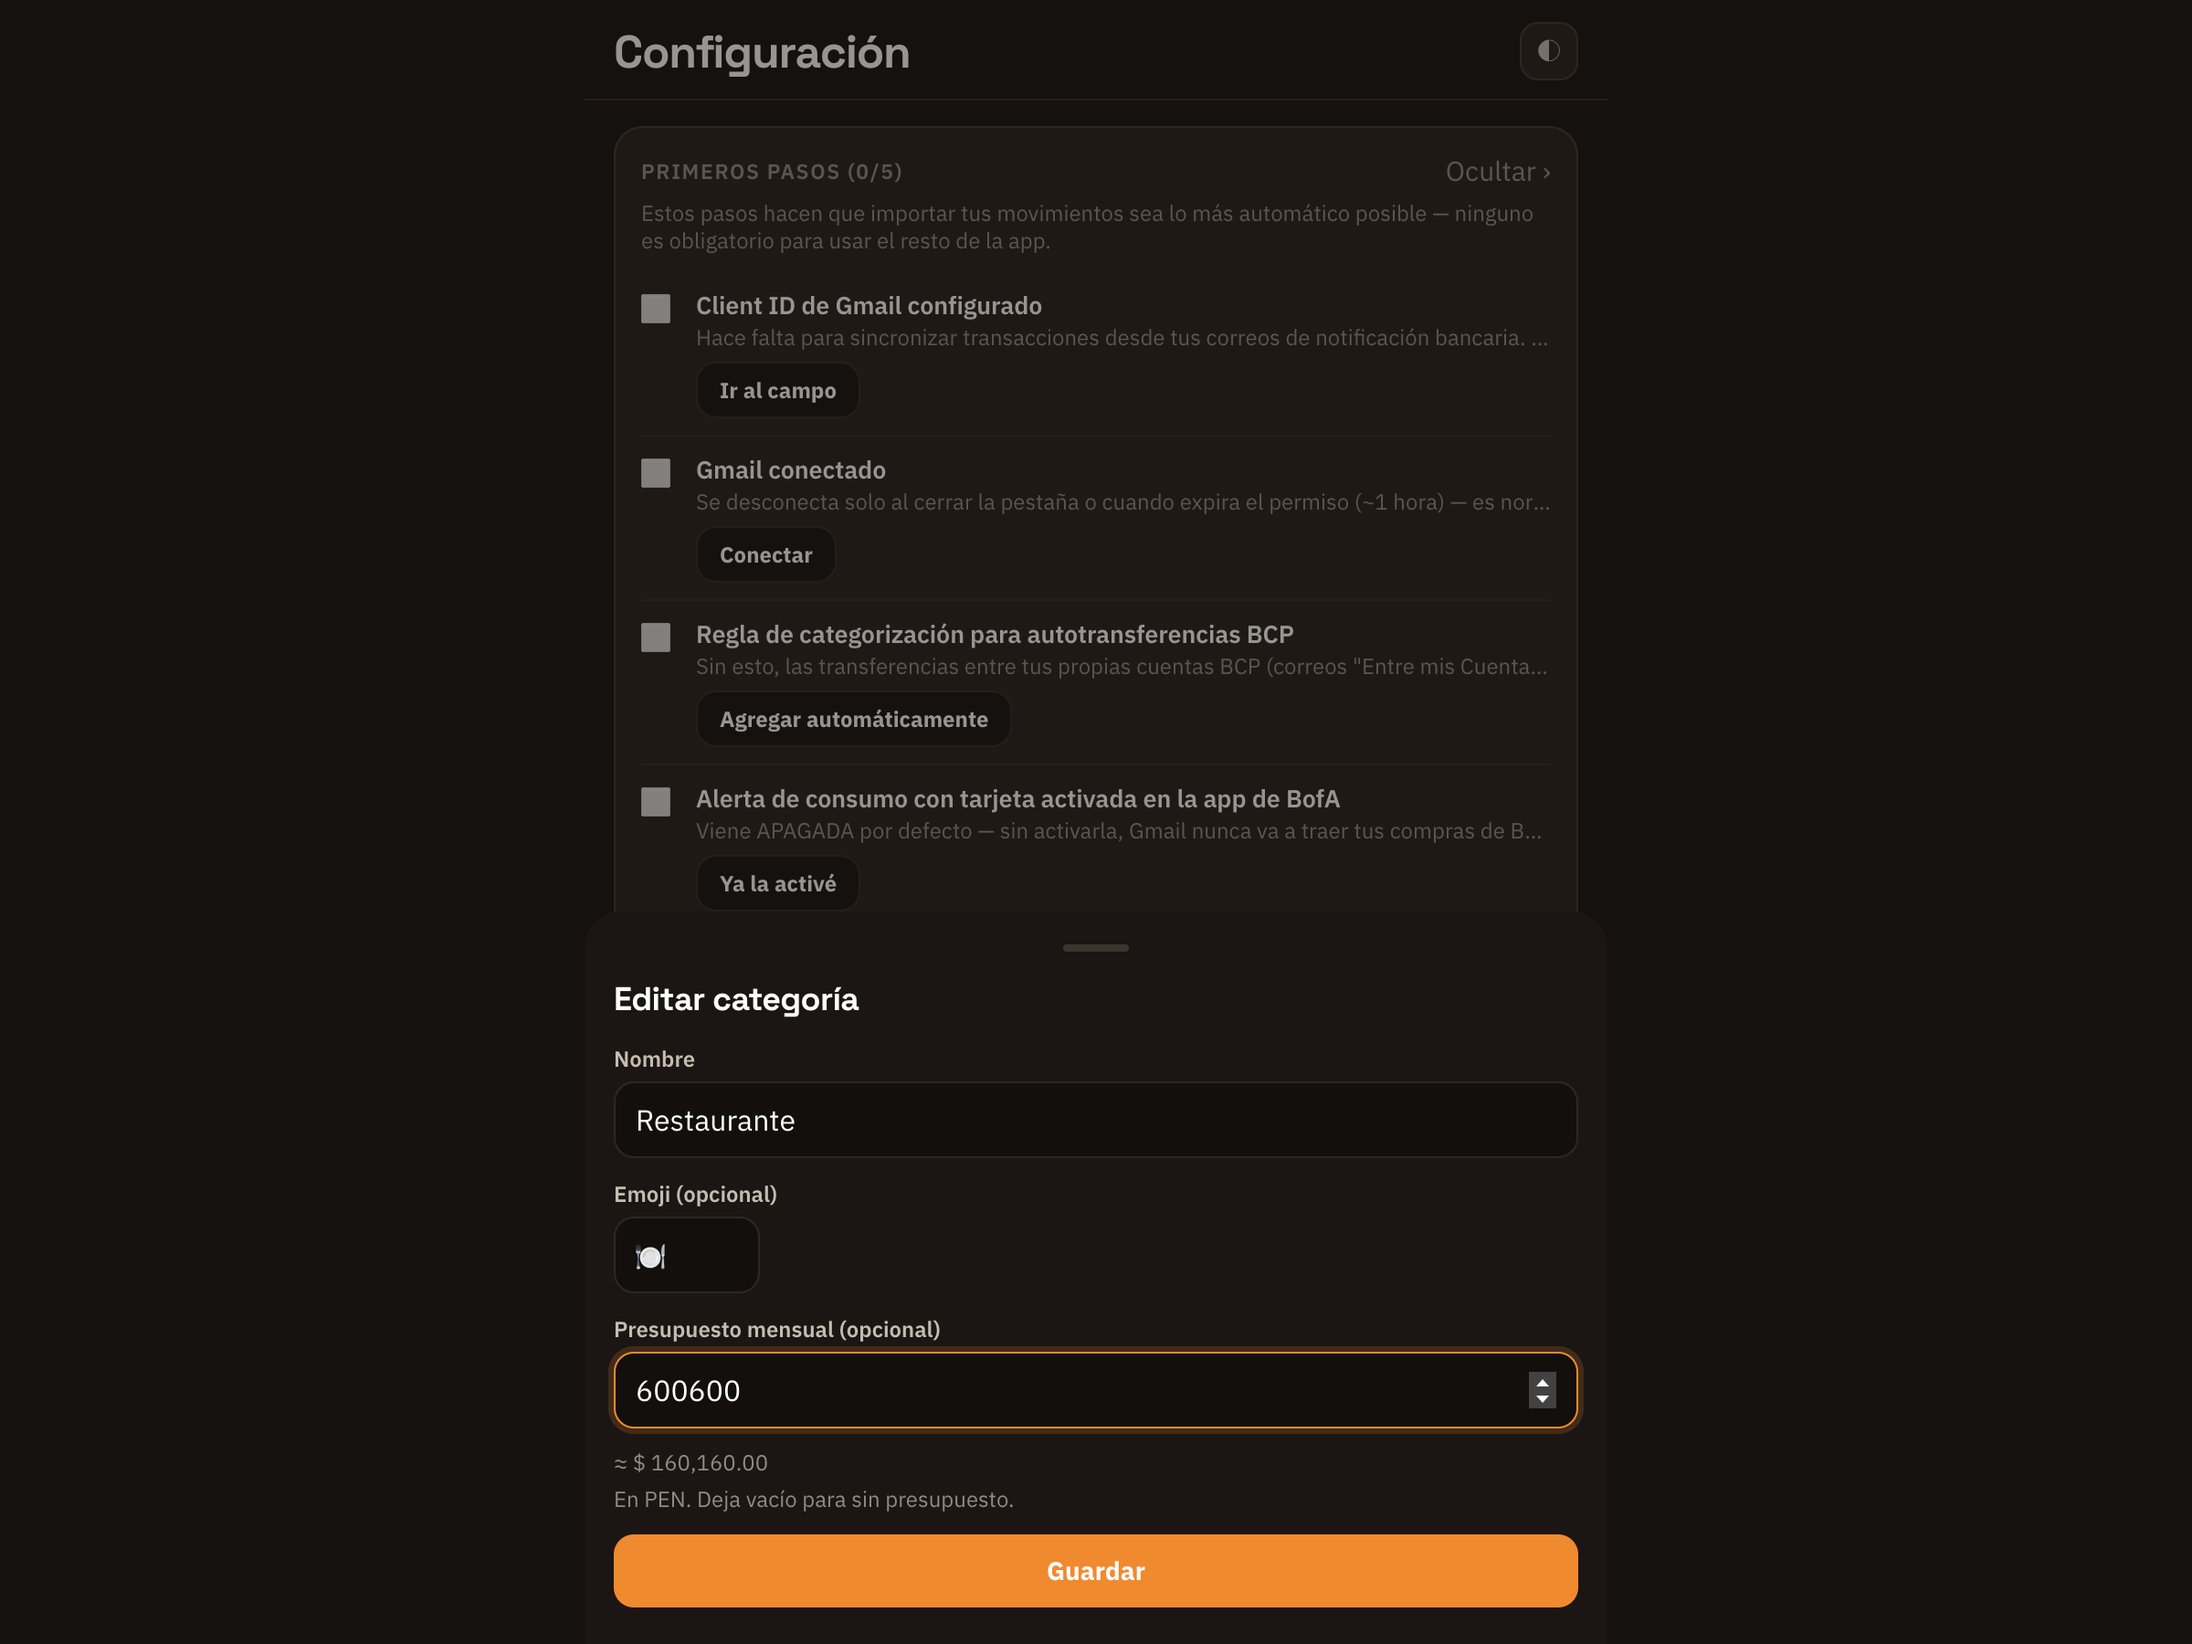
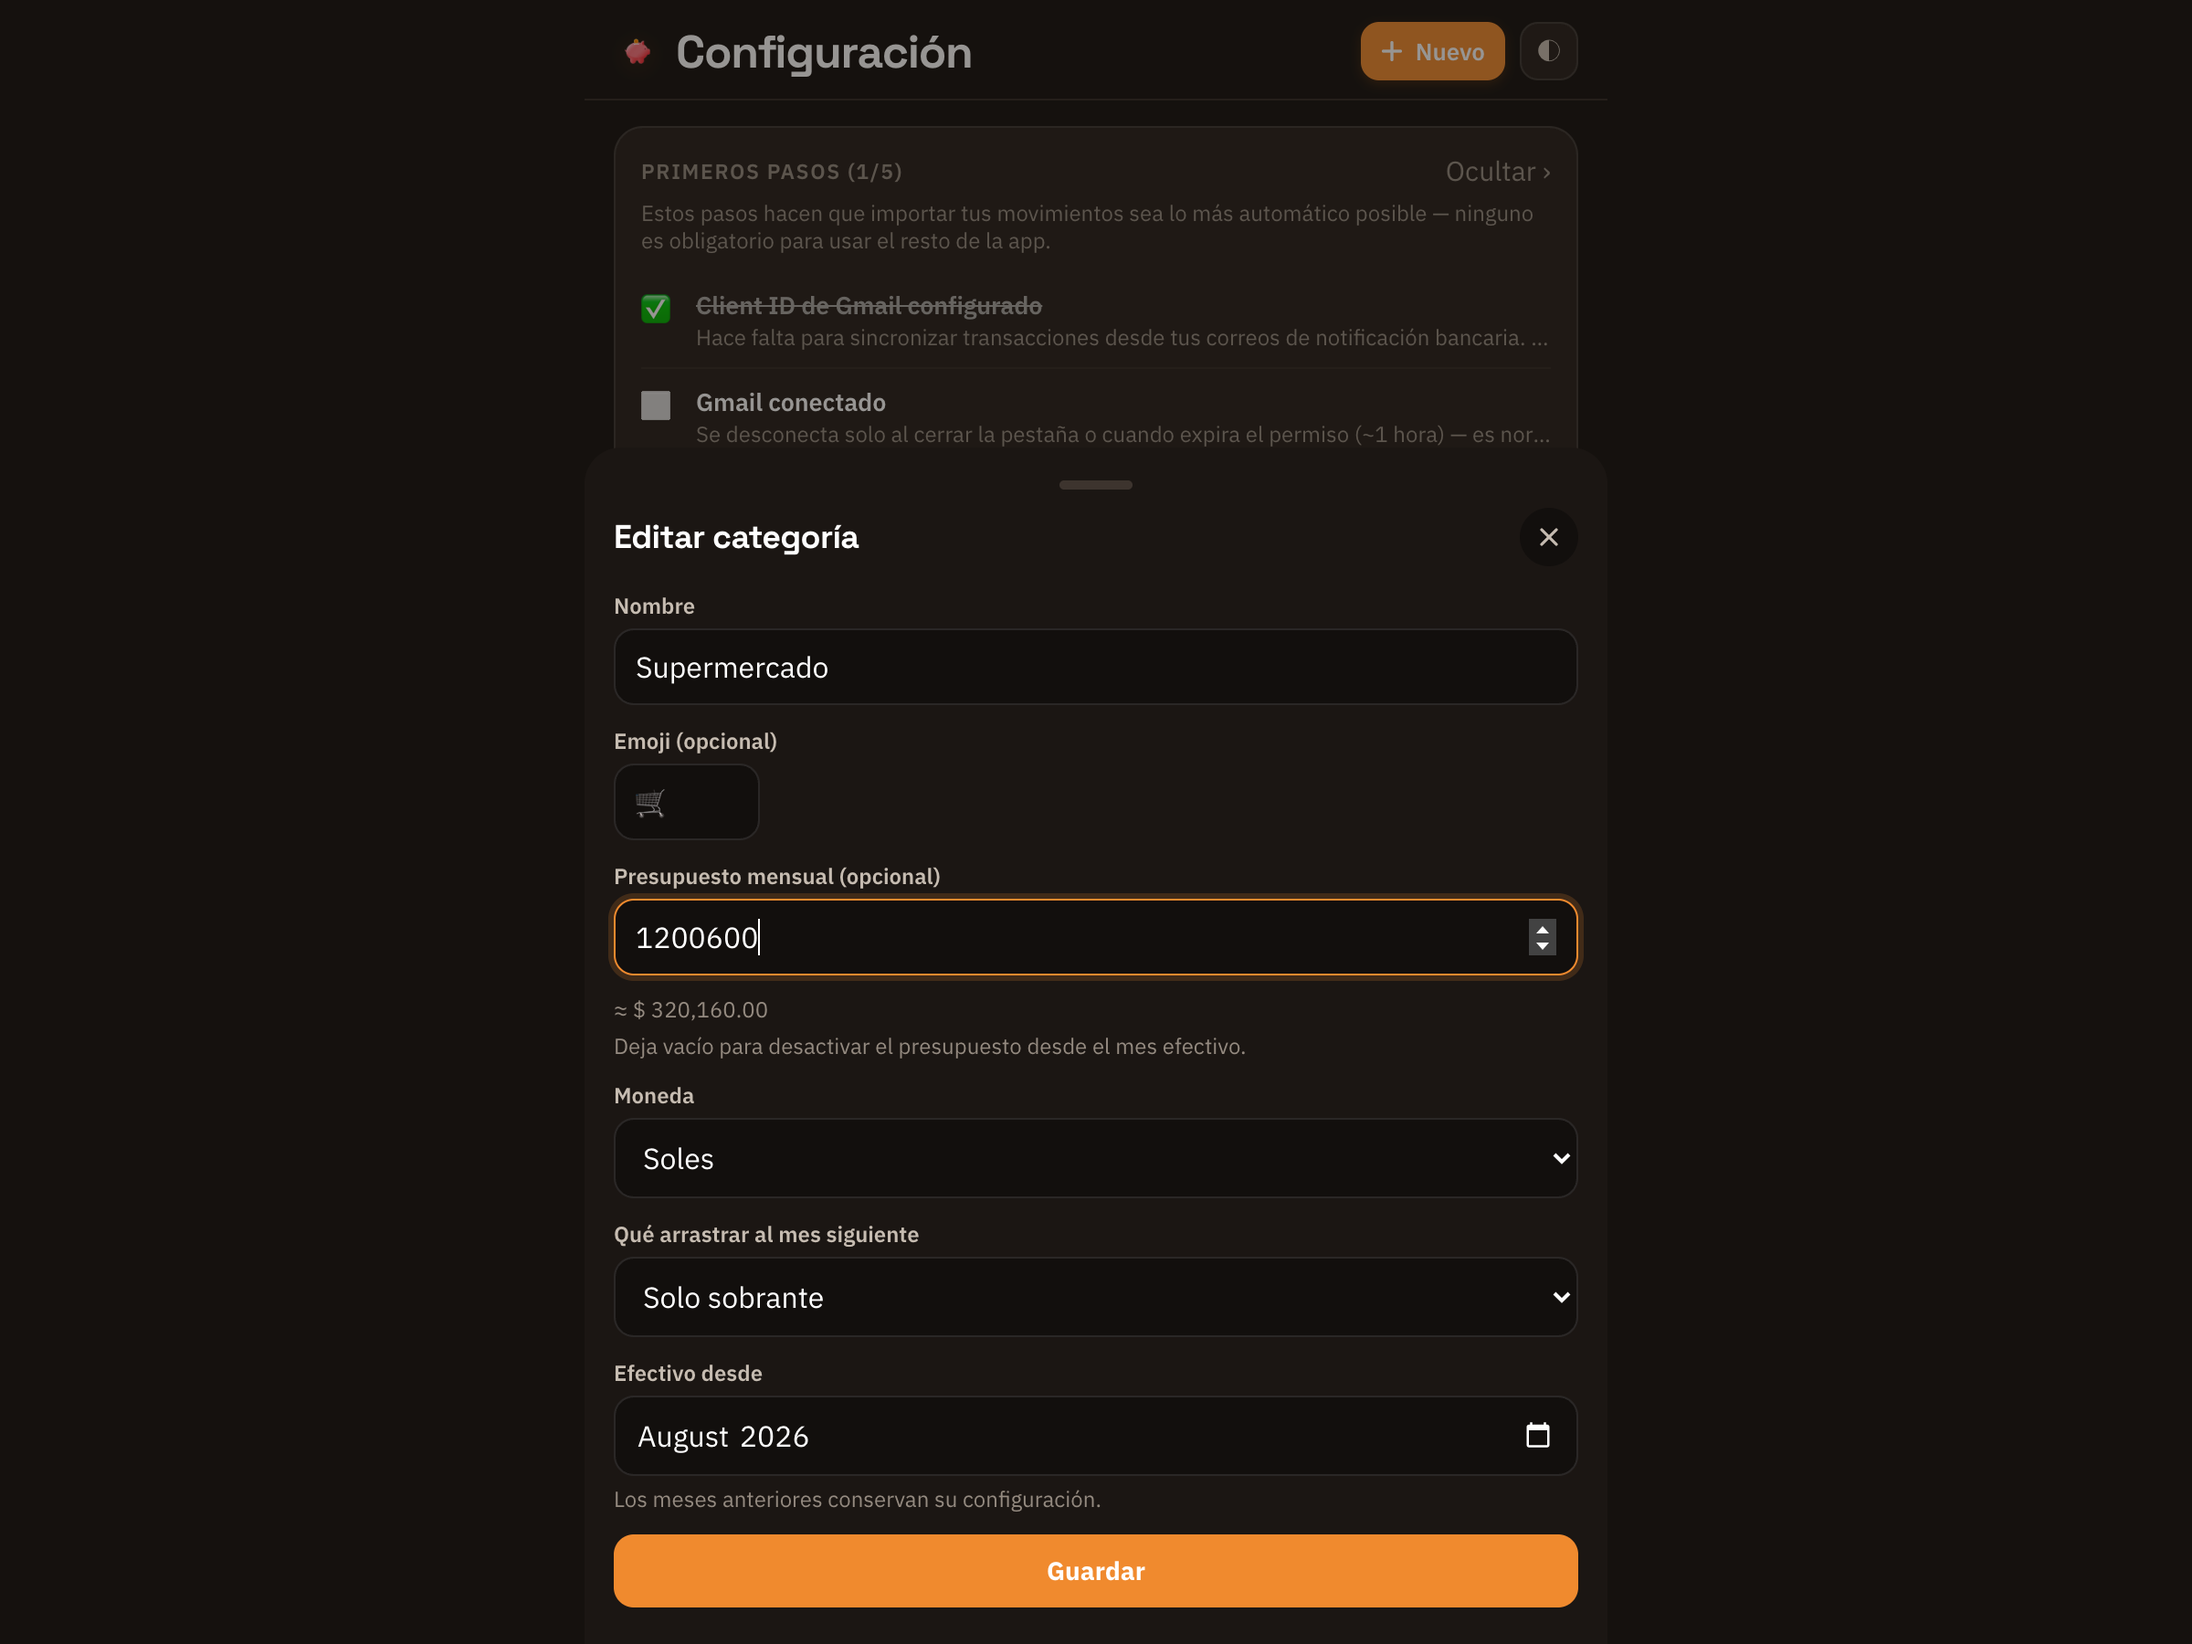
docs(showcase): refresh screenshots with synthetic data and expand showcase gallery (01-10)

diff --git a/README.md b/README.md
@@ -25,28 +25,66 @@
 
 ## 📸 Capturas de Pantalla
 
+_Todas las cifras de estas capturas son datos sintéticos generados para demostración — no representan información financiera real._
+
 <p align="center">
   <img src="docs/screenshots/01-dashboard.png" alt="Dashboard Principal" width="800">
   <br>
-  <em>Dashboard principal: KPIs de flujo neto y disponible, gráfico de gasto histórico, donut interactivo de categorías y proyección a 45 días.</em>
+  <em><strong>1. Dashboard Principal</strong>: KPIs de flujo neto y disponible por moneda, widget de próximos compromisos a 14 días, gráfico de gastos históricos, donut interactivo por categoría y proyección de saldo a 45 días.</em>
 </p>
 
 <p align="center">
-  <img src="docs/screenshots/02-plan-deudas.png" alt="Planificador Financiero y Estrategia de Deudas" width="800">
+  <img src="docs/screenshots/02-plan-deudas.png" alt="Plan de Deudas y Estrategia Avalancha" width="800">
   <br>
-  <em>Planificador: calendario financiero unificado, metas de ahorro con "Págate Primero" y simulador de cascada de deudas por TEA (Avalancha).</em>
+  <em><strong>2. Plan de Deudas & Avalancha</strong>: Calculadora de amortización por tarjeta y simulador interactivo de cascada por TEA (Avalancha) con análisis de impacto de ahorro en presupuestos.</em>
+</p>
+
+<p align="center">
+  <img src="docs/screenshots/03-importar-revision.png" alt="Inbox de Revisión Rápida de Transacciones" width="800">
+  <br>
+  <em><strong>3. Revisión Editable de Importación (OCR / IA / Gmail / CSV)</strong>: Triage de movimientos importados con detección visual de cuenta, advertencias de duplicados y validación aritmética de balance antes de confirmar.</em>
 </p>
 
 <p align="center">
   <img src="docs/screenshots/04-categoria-presupuesto.png" alt="Detalle de Categoría y Presupuesto" width="800">
   <br>
-  <em>Presupuestos mensuales: historial de ejecución, rollover automático y desglose de movimientos por categoría.</em>
+  <em><strong>4. Presupuestos con Conversión de Moneda en Vivo</strong>: Configuración de límites por categoría con rollover automático y conversión de tipo de cambio en tiempo real (PEN ↔ USD).</em>
 </p>
 
 <p align="center">
-  <img src="docs/screenshots/03-importar-revision.png" alt="Inbox de Revisión Rápida de Transacciones" width="340">
+  <img src="docs/screenshots/05-calendario-agenda.png" alt="Calendario Financiero Unificado y Agenda" width="800">
   <br>
-  <em>Inbox de revisión rápida: triage de movimientos importados antes de confirmarlos en base de datos.</em>
+  <em><strong>5. Calendario Financiero Unificado & Agenda</strong>: Vista mensual y agenda a 45 días con conciliación automática de pagos recurrentes, cuotas y compromisos.</em>
+</p>
+
+<p align="center">
+  <img src="docs/screenshots/06-simulador-predictivo.png" alt="Simulador Predictivo ¿Qué pasa si...?" width="800">
+  <br>
+  <em><strong>6. Simulador Predictivo "¿Qué pasa si...?"</strong>: Evaluación de impacto en flujo de caja ante gastos extraordinarios hipotéticos con diagnóstico de sobregiro y sugerencia de fecha segura.</em>
+</p>
+
+<p align="center">
+  <img src="docs/screenshots/07-transacciones-seleccion-masiva.png" alt="Transacciones con Selección Múltiple y Clasificación ML" width="800">
+  <br>
+  <em><strong>7. Transacciones & Selección Múltiple</strong>: Búsqueda instantánea, filtros combinados, sugerencias por Machine Learning local (✨) y modo de edición/borrado masivo en lote.</em>
+</p>
+
+<p align="center">
+  <img src="docs/screenshots/08-patrimonio-colecciones.png" alt="Patrimonio Neto y Colecciones TCG" width="800">
+  <br>
+  <em><strong>8. Patrimonio Neto & Portafolio de Coleccionables</strong>: Consolidado en USD de cuentas, pasivos y activos coleccionables (cartas TCG) con carrusel visual de ítems de alto valor.</em>
+</p>
+
+<p align="center">
+  <img src="docs/screenshots/09-metas-ahorro.png" alt="Metas de Ahorro y Págate Primero" width="800">
+  <br>
+  <em><strong>9. Metas de Ahorro & "Págate Primero"</strong>: Reservas de ahorro y fondos de emergencia con avance porcentual y cálculo automático de ritmo sugerido mensual.</em>
+</p>
+
+<p align="center">
+  <img src="docs/screenshots/10-captura-rapida.png" alt="Acceso Rápido Global" width="800">
+  <br>
+  <em><strong>10. Acceso Rápido Global (+)</strong>: Modal optimizado para captura instantánea de gastos, ingresos y transferencias en un solo toque.</em>
 </p>
 
 ---
